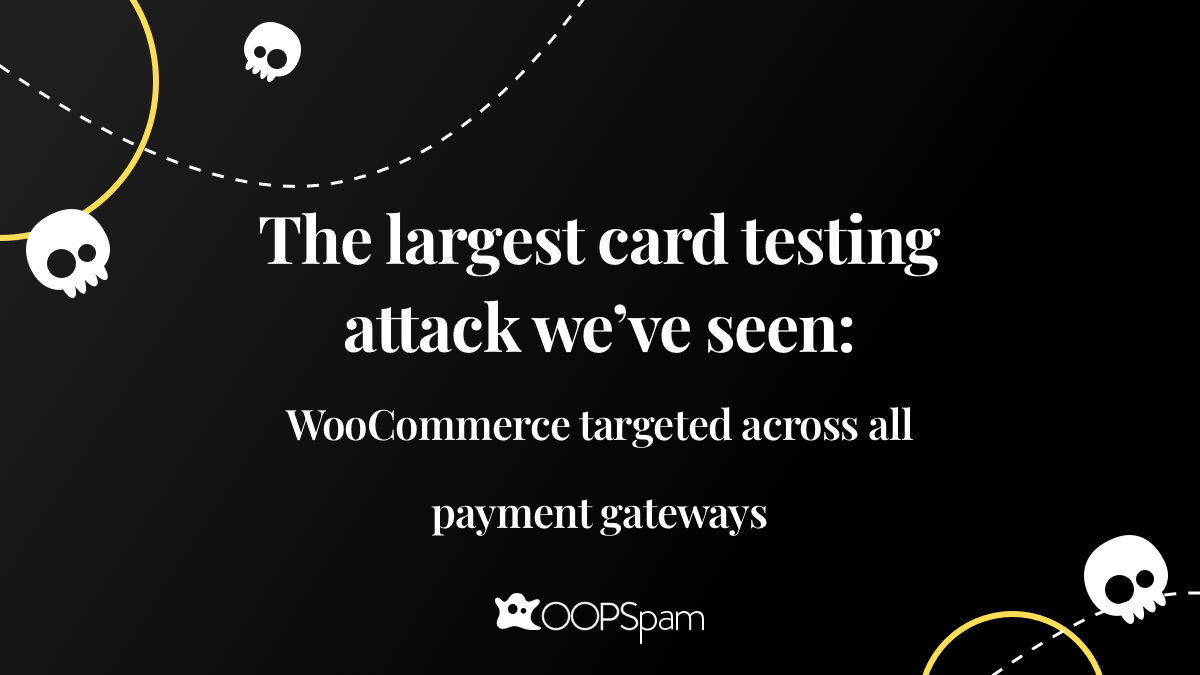
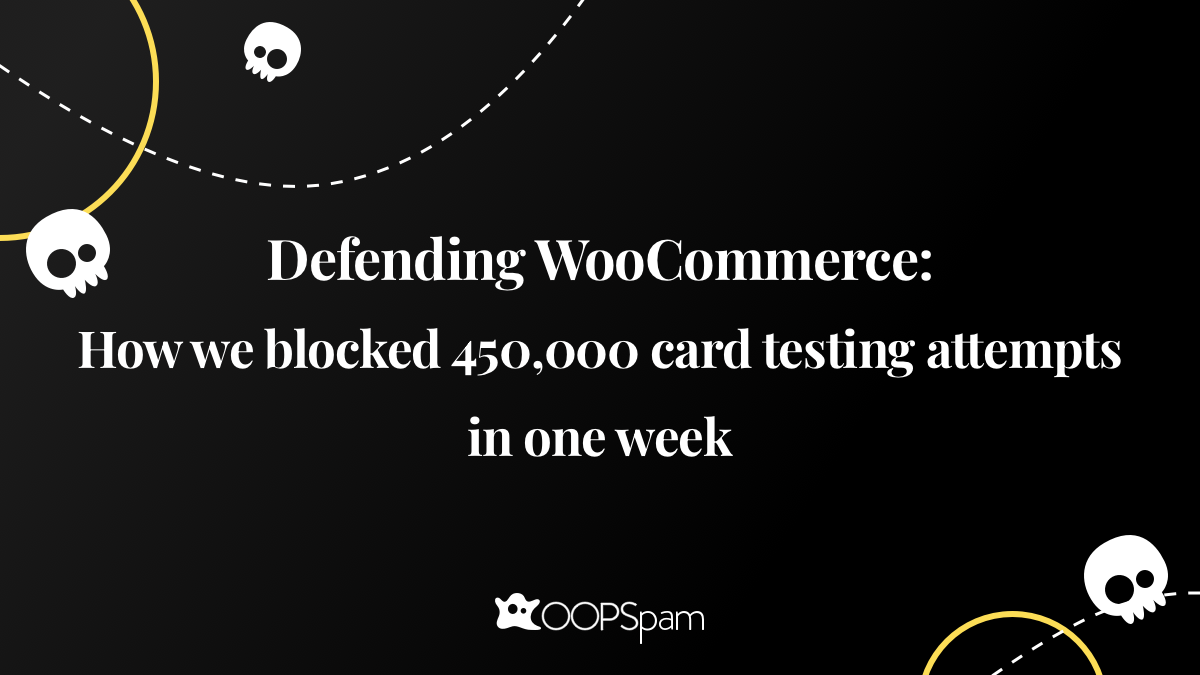
fix the title

Changed region(s): [[0.0617, 0.3111, 0.9558, 0.56], [0.2467, 0.5911, 0.7708, 0.6844], [0.3392, 0.7467, 0.6475, 0.8089]]

diff --git a/_posts/2025-09-26-the-larget-card-testing-attack.md b/_posts/2025-09-26-the-larget-card-testing-attack.md
@@ -1,10 +1,10 @@
 ---
 layout: post
-title: "The largest card testing attack we’ve seen: WooCommerce targeted across all payment gateways"
+title: "Defending WooCommerce: How we blocked 450,000 card testing attempts in one week"
 date: 2025-09-26T13:09:00.000-05:00
 author: onar
 image: /assets/posts/largest-card-testing-attack-Woo.png
-description: OOPSpam detected the largest card testing campaign against WooCommerce, targeting PayPal plus credit and debit gateways. Here’s what happened and how we mitigated it.
+description: How OOPSpam blocked 450,000 card testing attempts targeting WooCommerce stores across PayPal, credit, and debit gateways in seven days.
 tags:
   - Woo
   - WooCommerce
